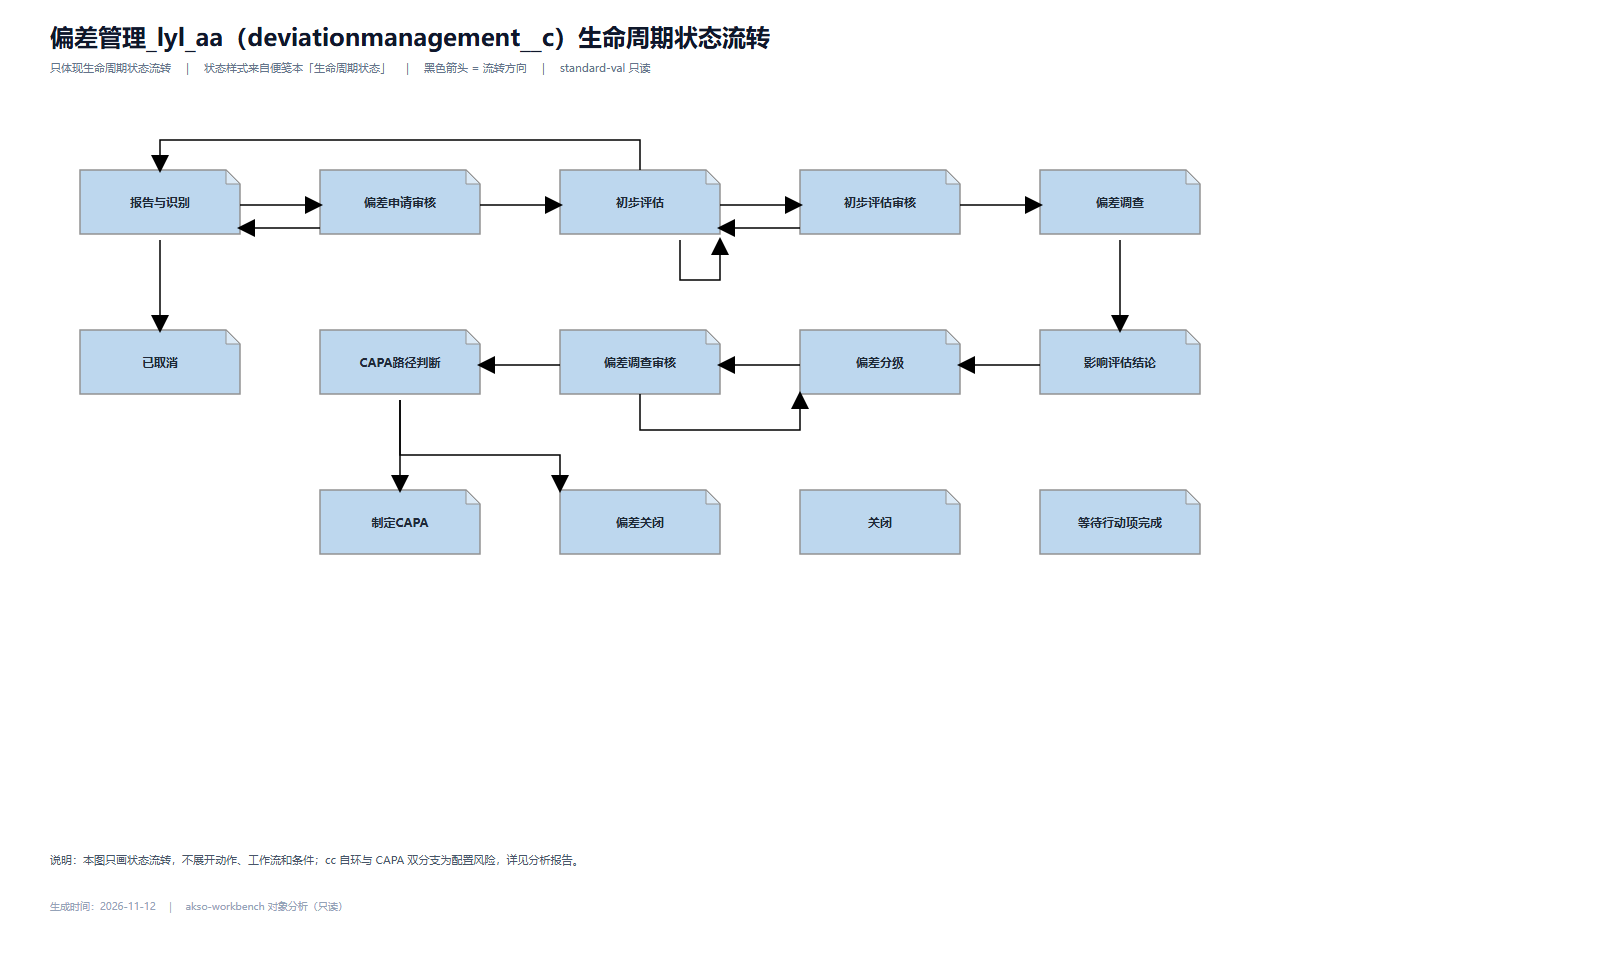
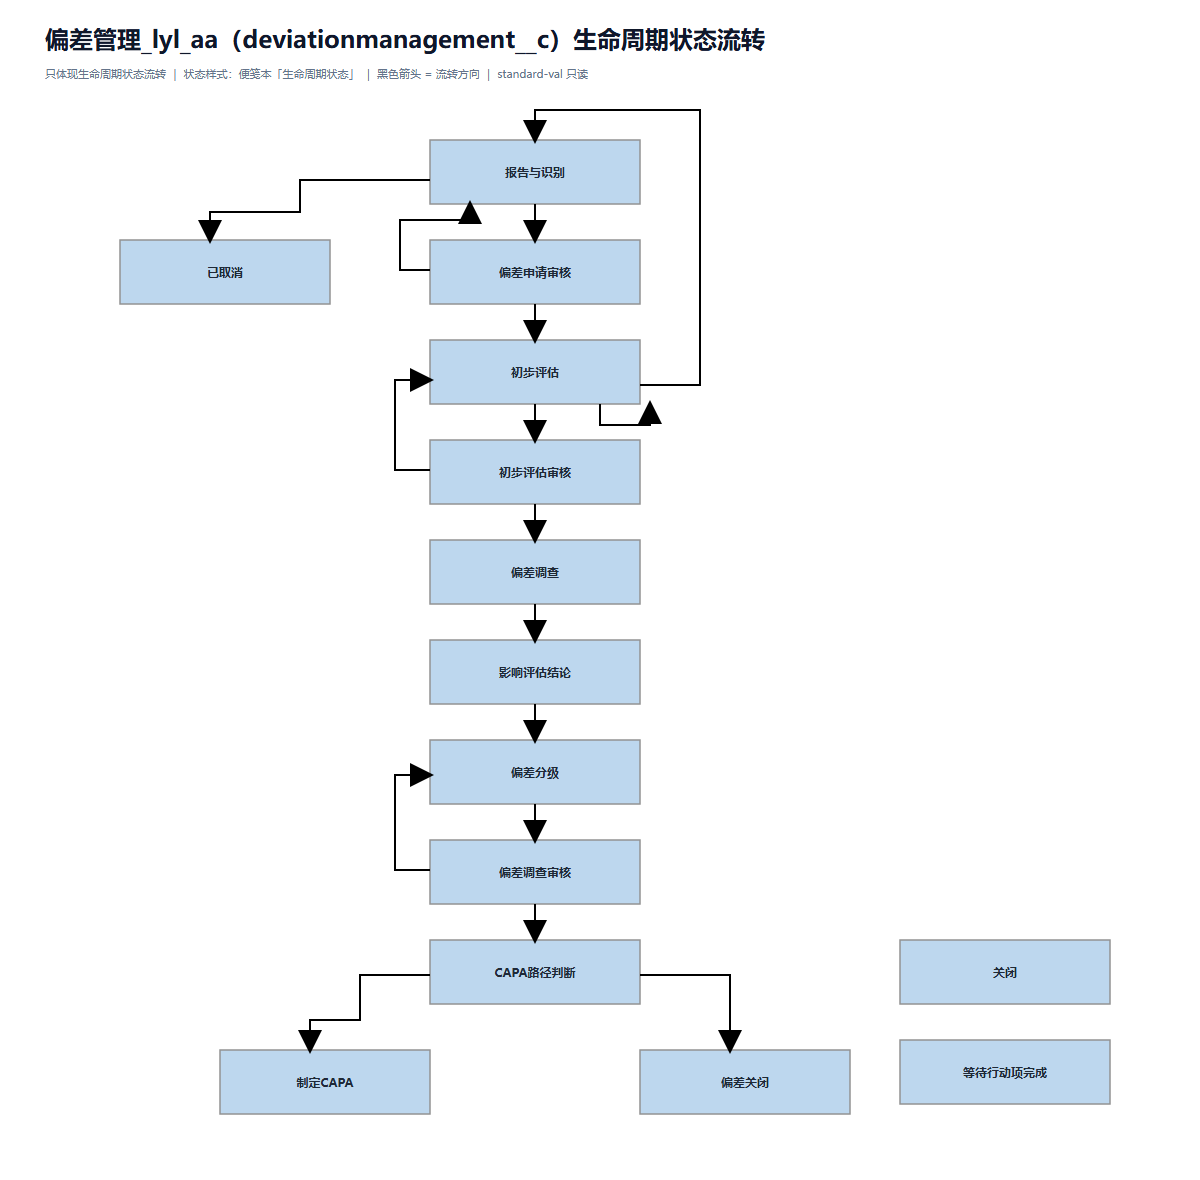
docs(analysis): 竖向重绘生命周期图并展示便笺本模块

diff --git a/docs/analysis/deviationmanagement__c-lifecycle.md b/docs/analysis/deviationmanagement__c-lifecycle.md
@@ -10,7 +10,9 @@
 >
 > 流程图：[deviationmanagement__c-lifecycle.drawio](deviationmanagement__c-lifecycle.drawio) ｜ [PNG 预览](deviationmanagement__c-lifecycle.png)
 >
-> 画法：只画生命周期状态流转，黑色箭头；状态样式取自便笺本「生命周期状态」。
+> 画法：只画生命周期状态流转，竖向排列，黑色箭头；状态样式取自便笺本「生命周期状态」。
+>
+> 模块展示：[便笺本模块展示.drawio](便笺本模块展示.drawio) ｜ [PNG](便笺本模块展示.png)
 
 ## 1. 概览
 
